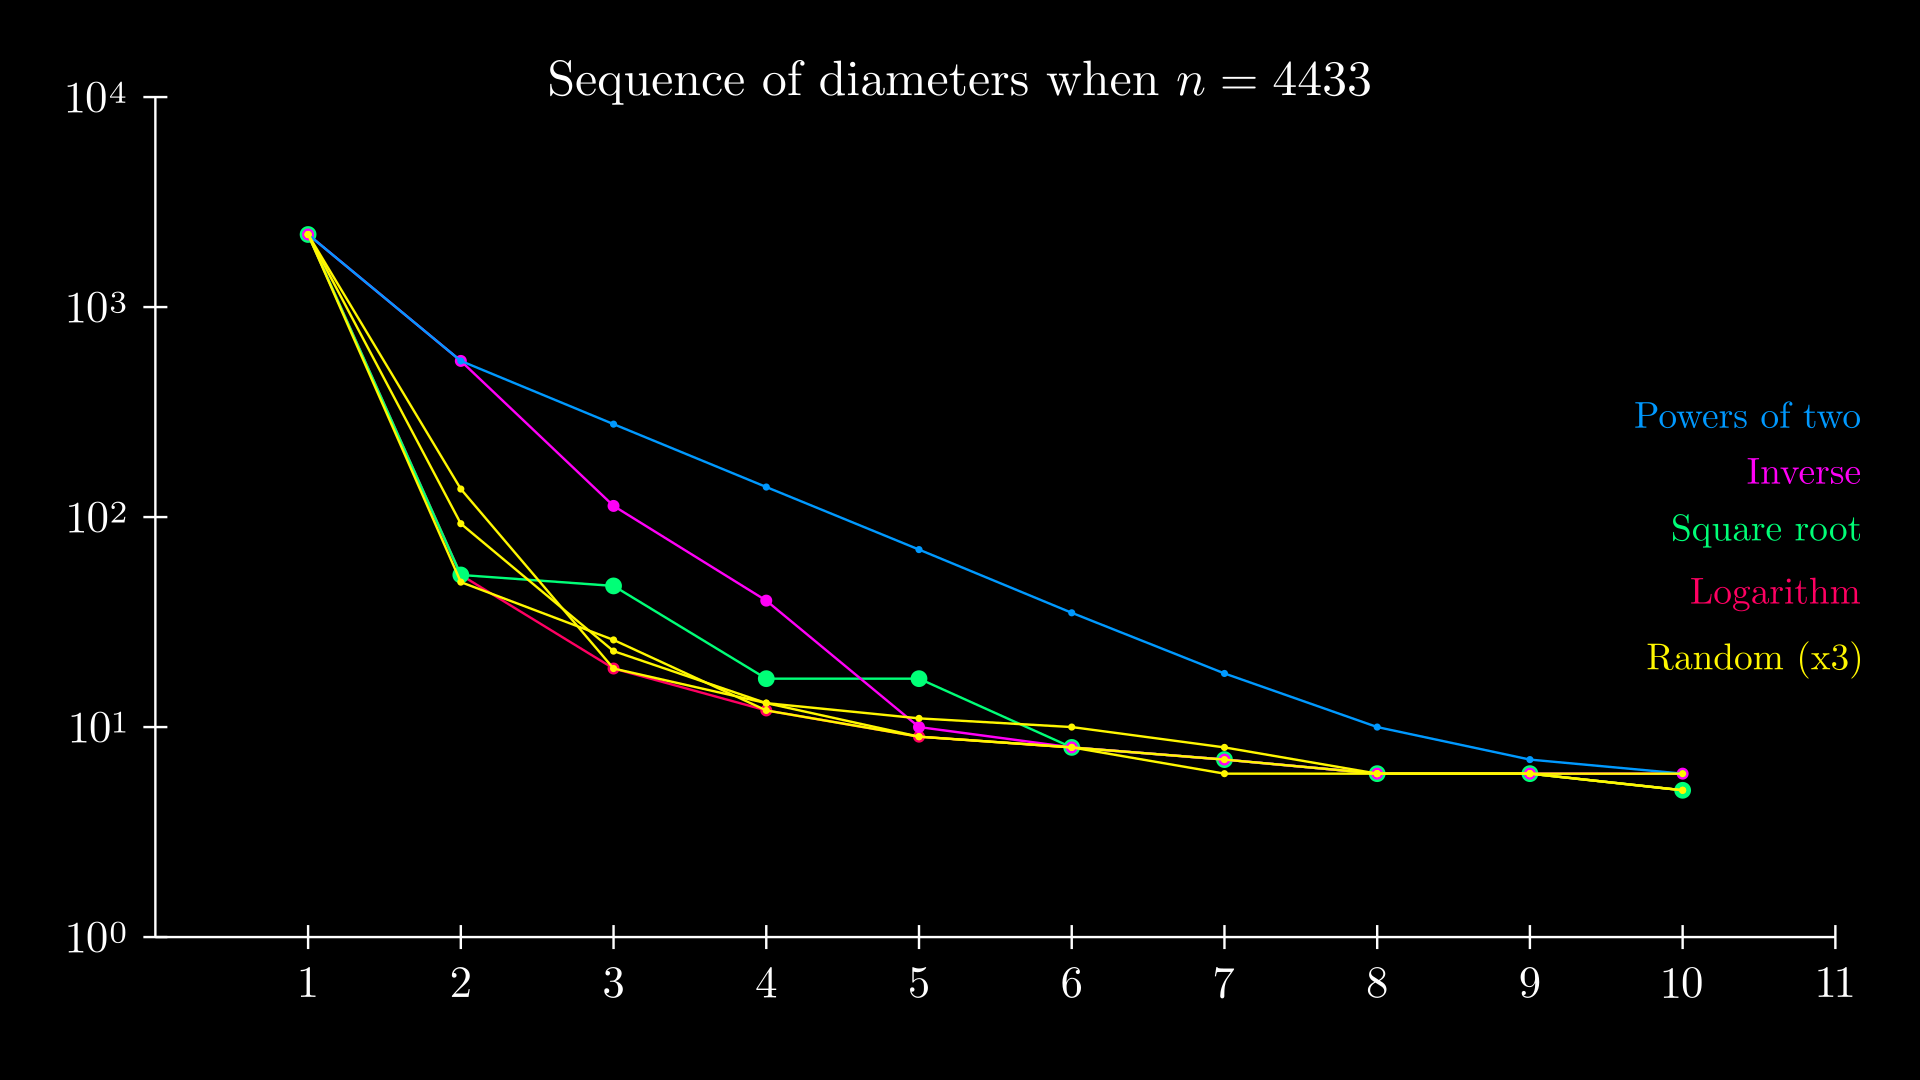
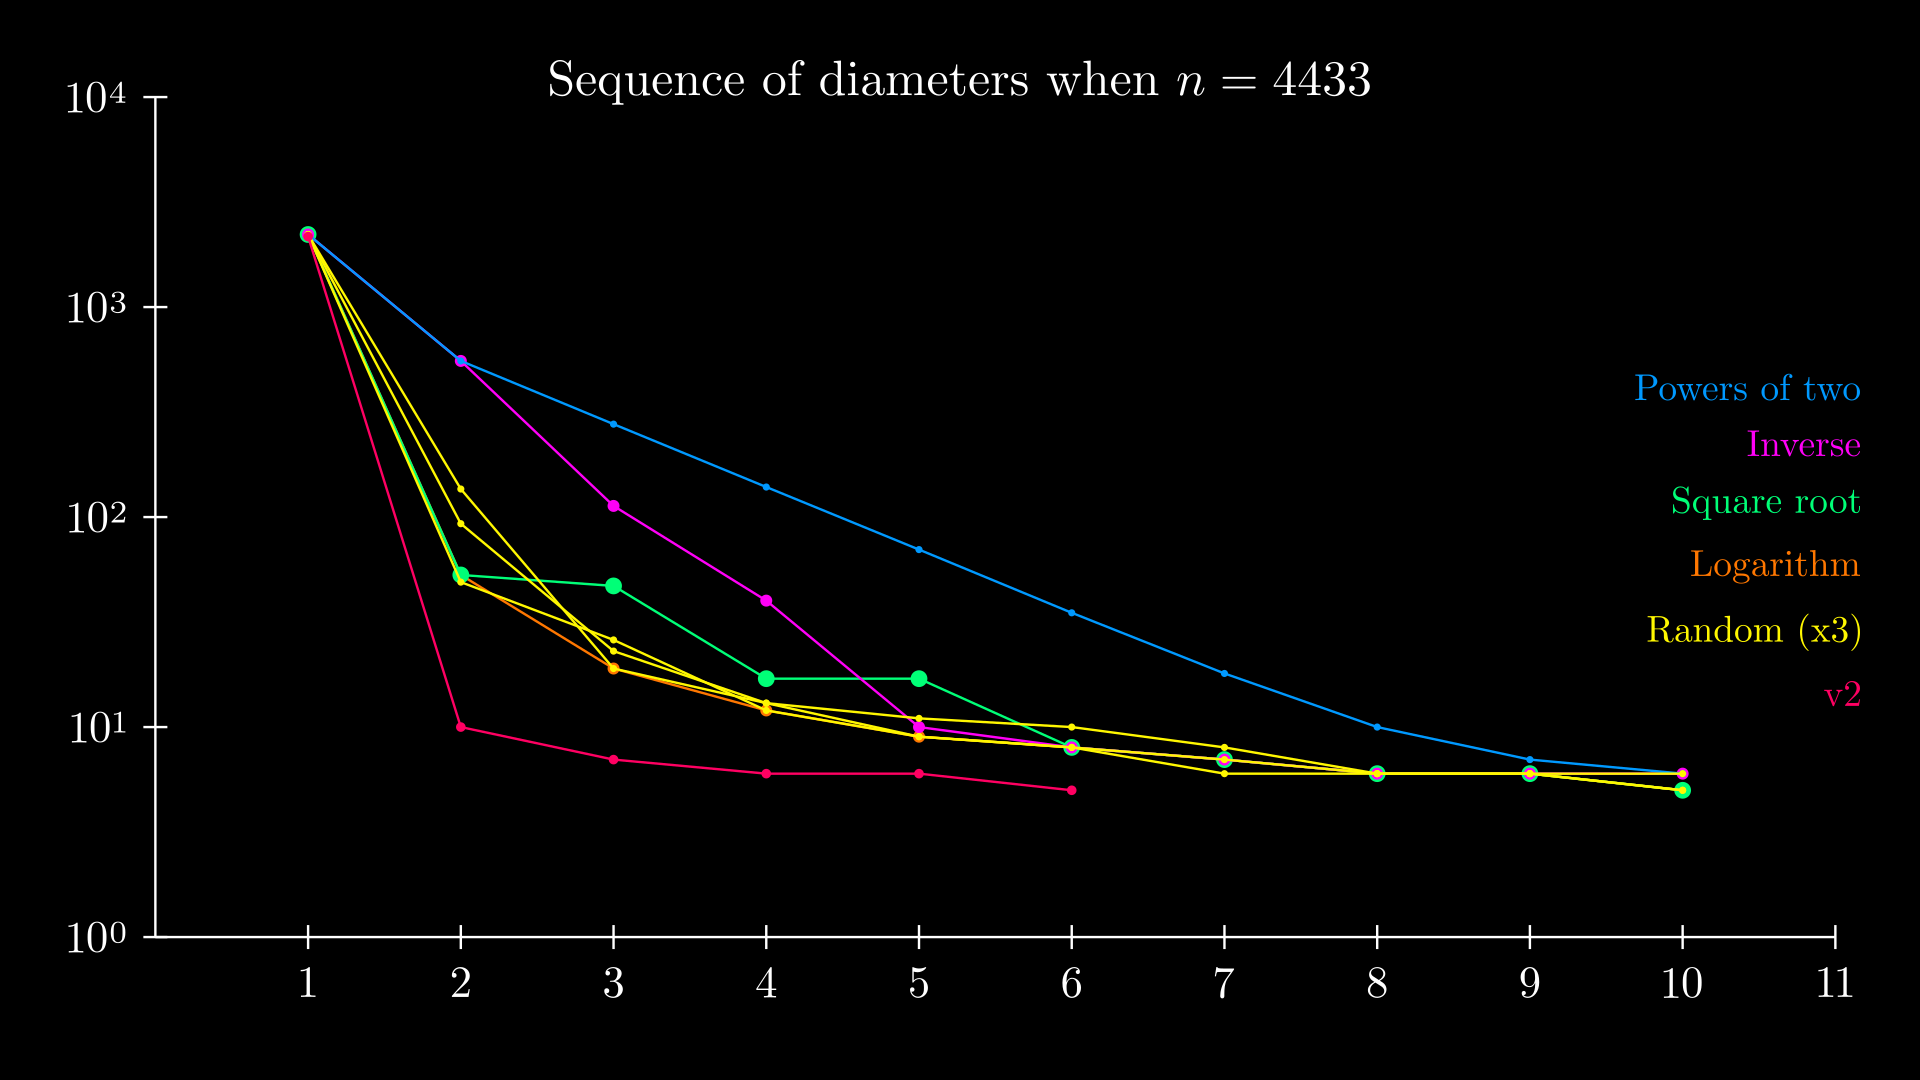
update benchmark

diff --git a/README.md b/README.md
@@ -1,4 +1,4 @@
-# The Bubble
+# Bubble graph
 
 How to rank entries in a massive competition?
 
@@ -14,7 +14,7 @@ This way entries are the nodes of a directed graph where a comparison between tw
 
 ## Principles
 
-We want the graph to have the following properties:
+We want the pairing graph to have the following properties:
 1. It must be **[connected](https://en.wikipedia.org/wiki/Connectivity_(graph_theory)#Connected_vertices_and_graphs)**, since otherwise some islands of entries are not, even indirectly, comparable.
 2. It should have the smallest **[diameter](https://en.wikipedia.org/wiki/Distance_(graph_theory))** possible, otherwise if two entries are hundreds of comparisons apart, how to reliably tell which one is better?
 3. Nodes must have the **[same degree](https://en.wikipedia.org/wiki/Degree_(graph_theory))**. This is a fairness principle. Every entry should receive the same amount of attention: it would not be fair if an entry were compared only once while another entry had dozens of comparisons. So the graph must be **[regular](https://en.wikipedia.org/wiki/Regular_graph)**.
@@ -50,16 +50,8 @@ A simple family of such functions is $F(N,k,i) = i + f(N,k)$ for f based on usua
 
 https://user-images.githubusercontent.com/48696601/186481367-c9e00009-77ee-4439-a22a-63dd4cd15114.mp4
 
-### Research question
 
-Answering the following question would help find a canonical way to build the graph:
-
-> What is the 2k-regular graph of order N of smallest diameter?
-
-
-Since we lack a canonical way to build the graph, we can benchmark different strategies to find the best one.
-
-## Benchmark: generating the smallest bubbles
+## Benchmark: generating the smallest bubble
 
 When comparing two strategies F1 and F2 for building the graph, let's say F1 is **strongly** better than F2 if at **every** step of the algorithm, the diameter given by strategy F1 is less than or equal to the one given by strategy F2. Let's say it's **weakly** better if on average more steps are in favor of F1 than F2.
 
@@ -85,7 +77,7 @@ This is the decrease in diameter for the different strategies when $n=4433$, sho
 
 
 
-After 8 steps with the log strategy, the graph has diameter 6.
+After 4 steps with the v2 strategy, the graph has diameter 6.
 
 ### Results
 
@@ -95,13 +87,6 @@ When N is big enough there is a clear difference between the strategies:
 - The square root strategy is weakly better than the inverse strategy 82% of the time
 - The log strategy is weakly better than the square root strategy 76% of the time
 - The random strategy is almost always as good as the log strategy.
-
-### Conclusion
-
-The **random strategy** stands out for the following reasons:
-1. It performs consistently well, like the log strategy
-2. The formula is simple and deals with integers
-3. It's the only one that converges to the **complete graph** of order N (in $k=\frac{N-1}{2}$ steps). The other strategies stop after connecting nodes closer and closer until i and i+2
 
 ## Ranking
 
